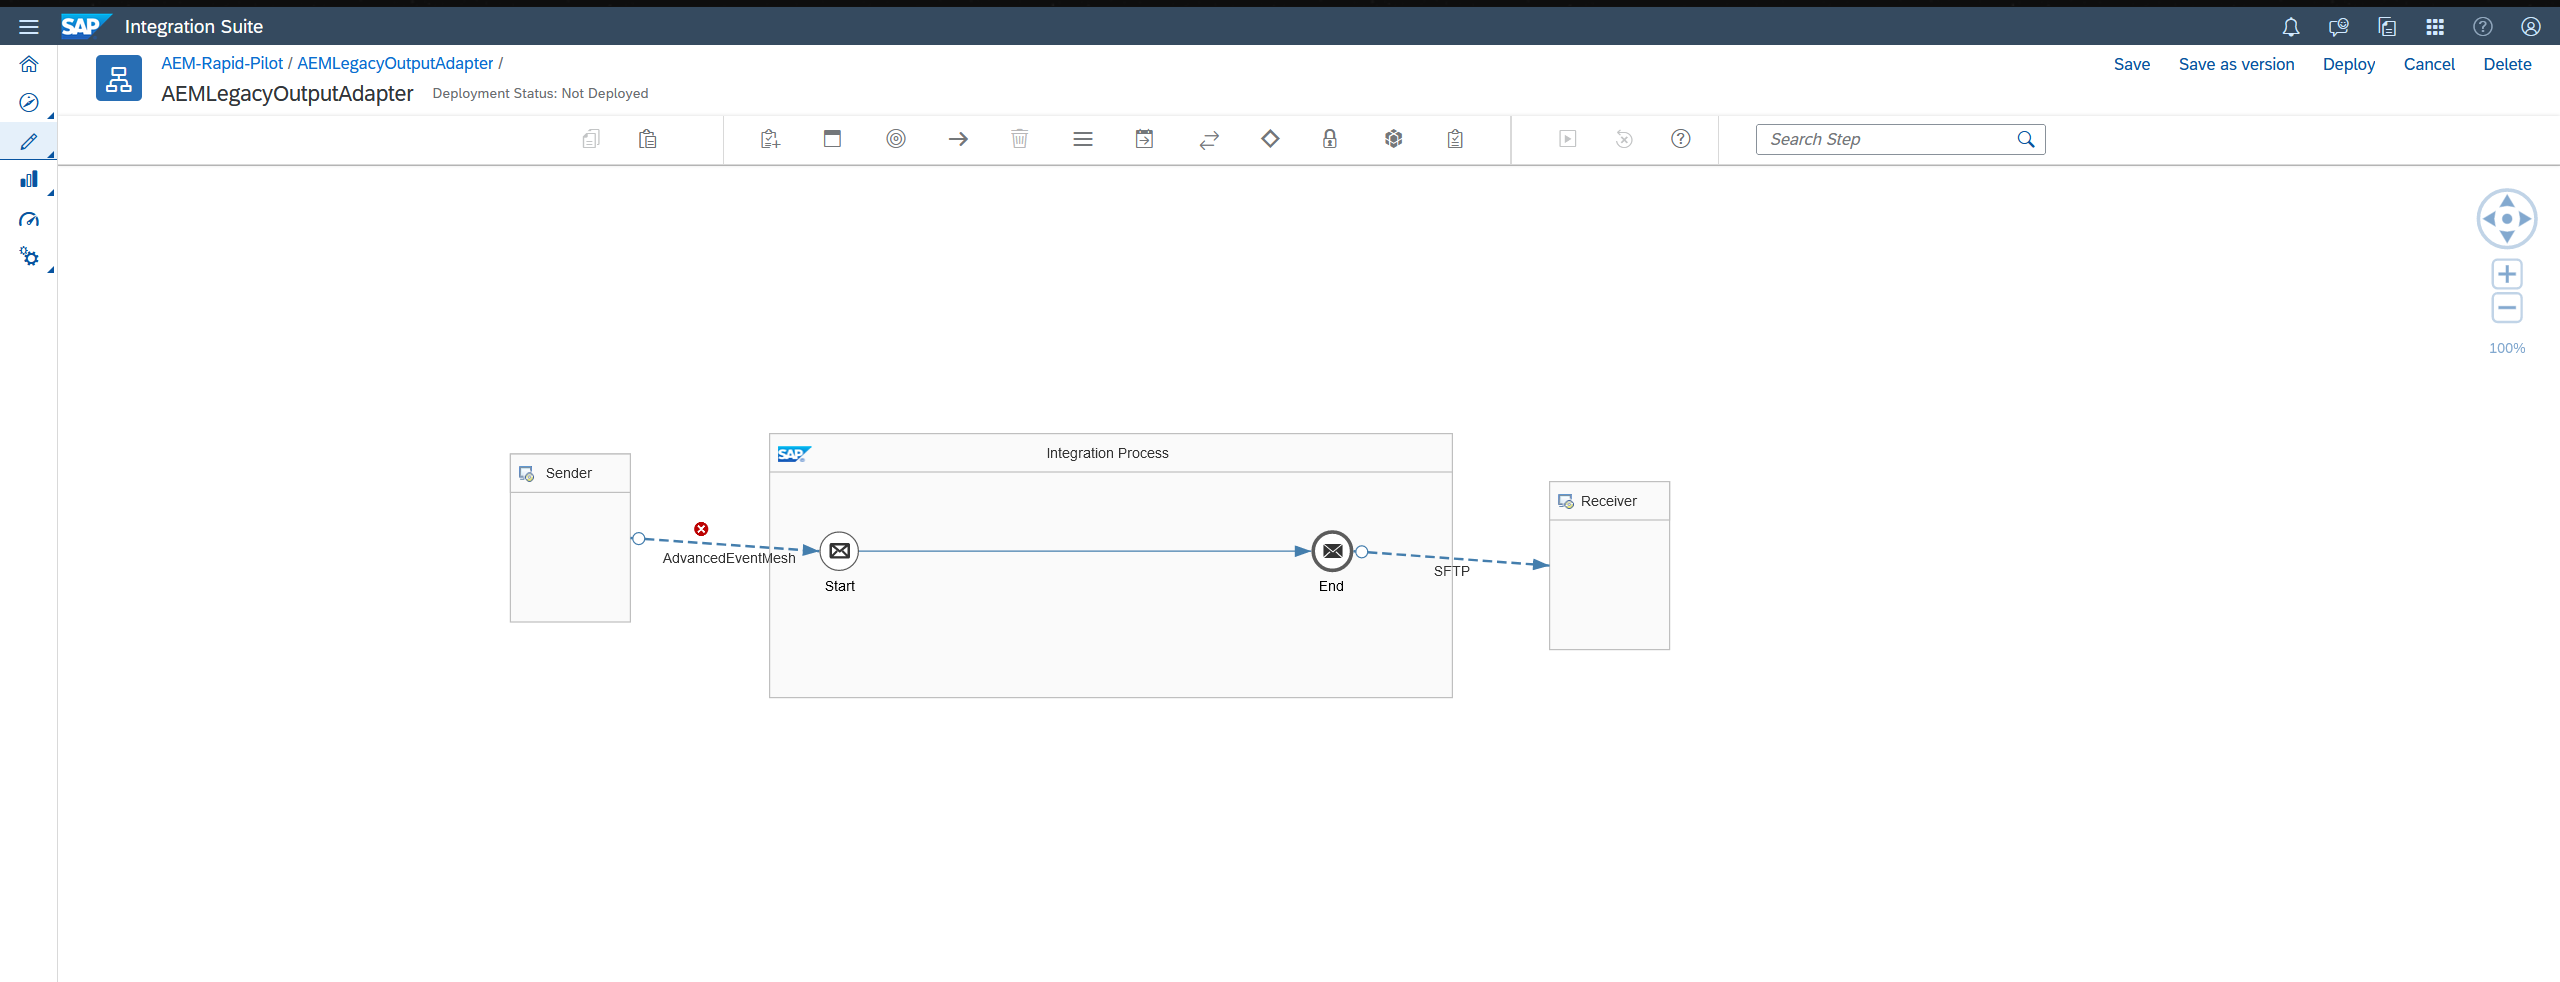
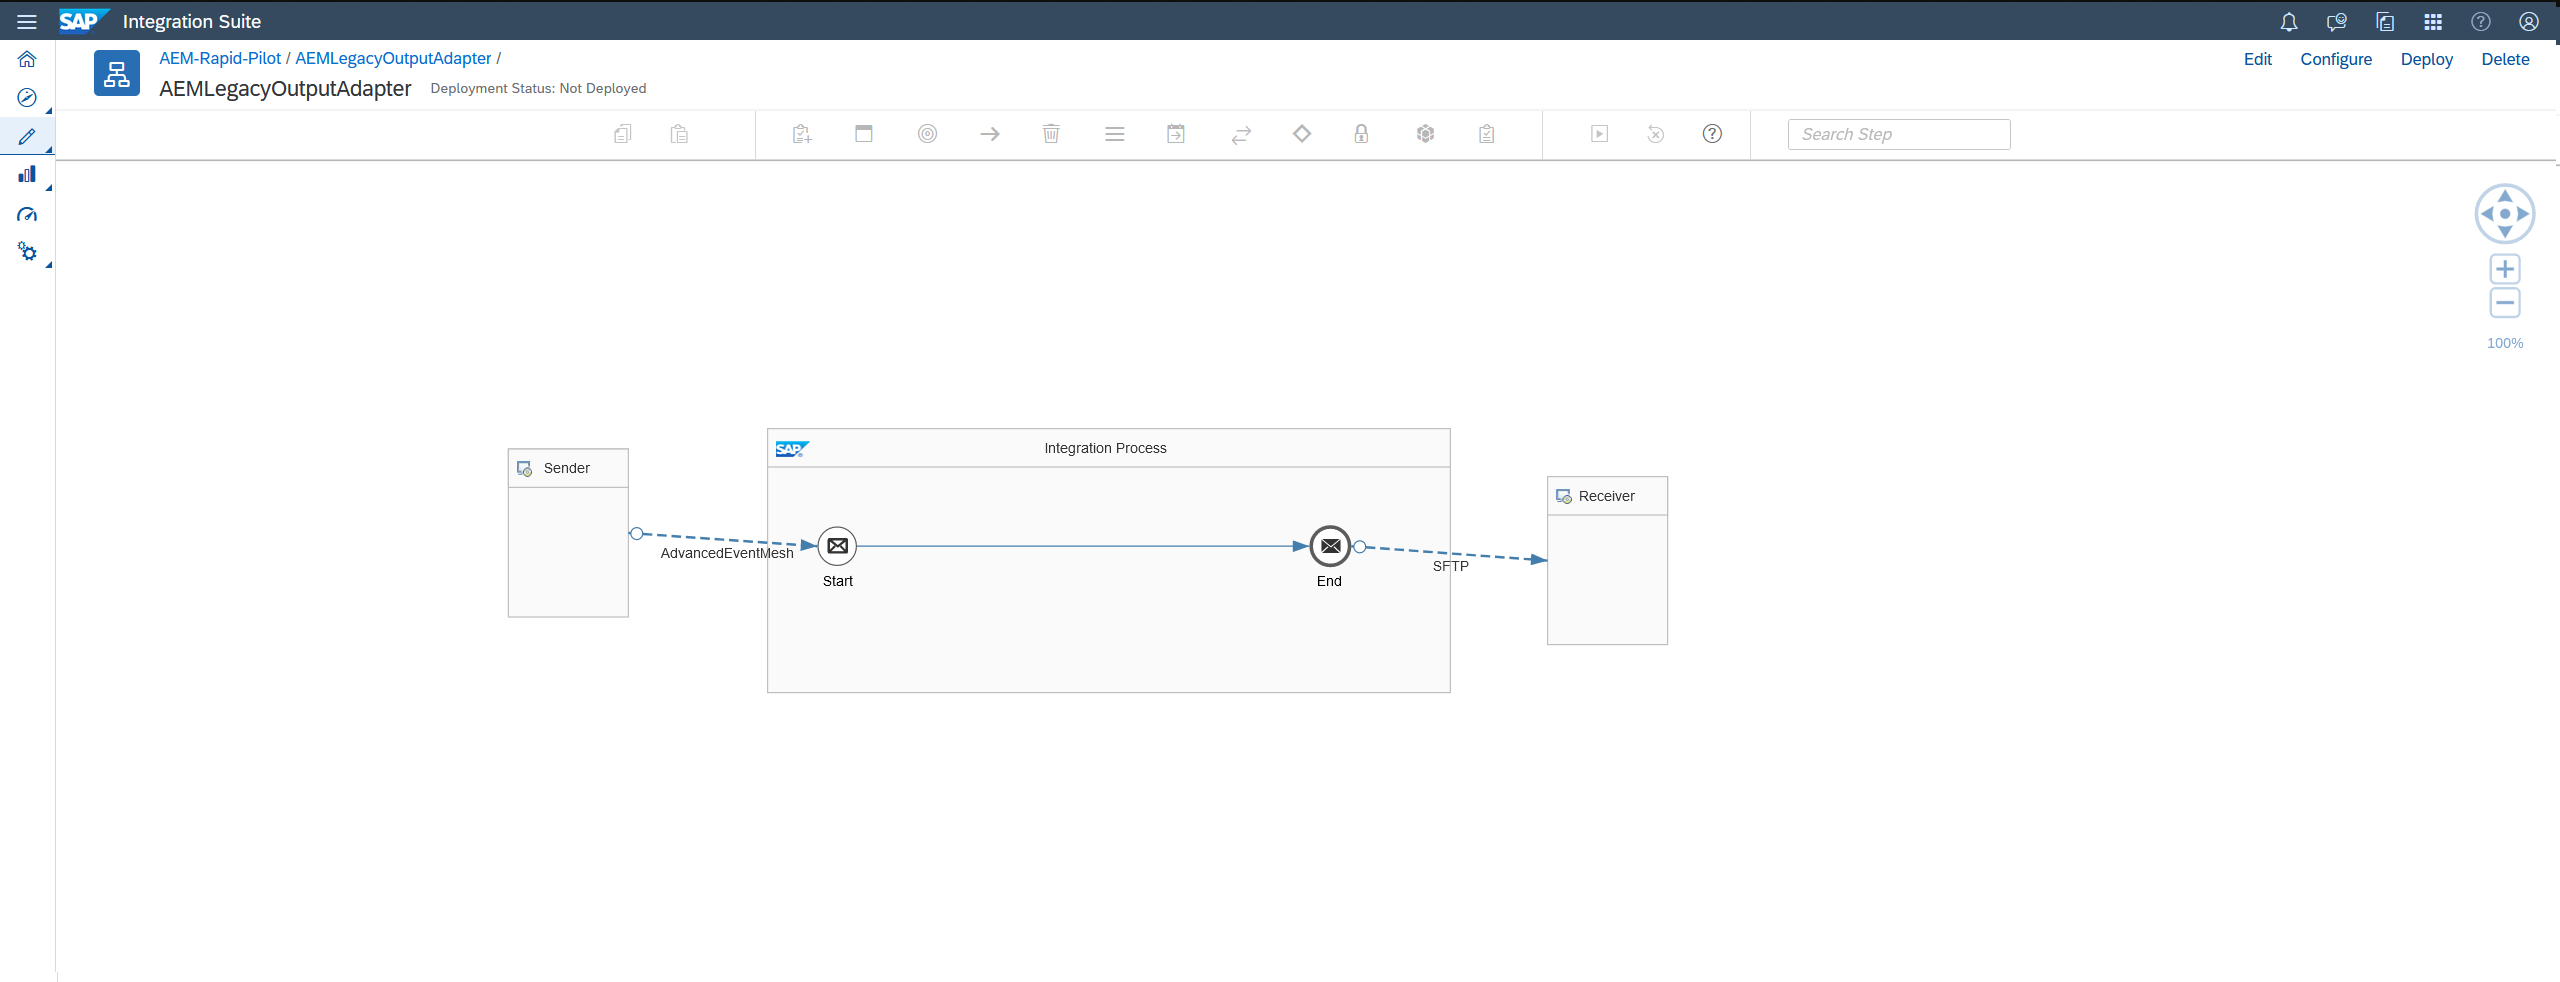
Added more details on the LegacyOutputAdapter
Added more details on the LegacyOutputAdapter

diff --git a/markdown/sap-aem-int-day-3/sap-aem-int-day-3.md b/markdown/sap-aem-int-day-3/sap-aem-int-day-3.md
@@ -153,11 +153,11 @@ Now that we have set up all the prerequisites for our Integration Suite flows, w
 2a. Let's take a look at the AEMBusinessPartnerAddressCheck iflow:
 ![AEMBusinessPartnerAddressCheck_flow](img/AEMBusinessPartnerAddressCheck_flow.png)
 > This flow receives Business Partner Create and Change events and invokes the Data Quality Management Service in BTP to check and correct the addresses inside the Business Partner event payload. It does this by<br>
-> a) Storing the original event payload in an environment variable.
-> b) Populating the DQM request payload with the addresses in the input event.
-> c) Invoking the DQM service over REST and
-> d) Parsing the response, checking whether the DQM service evaluated the input addresses to be Valid, Invalid, Blank or has Corrected them.
-> e) Merging any corrected addresses back into the original payload.
+> a) Storing the original event payload in an environment variable.<br>
+> b) Populating the DQM request payload with the addresses in the input event.<br>
+> c) Invoking the DQM service over REST and<br>
+> d) Parsing the response, checking whether the DQM service evaluated the input addresses to be Valid, Invalid, Blank or has Corrected them.<br>
+> e) Merging any corrected addresses back into the original payload.<br>
 > f) And finally publishing the result back as a new event to the AEM broker with an updated topic in the format:<br>
 > `sap.com/businesspartner/addressChecked/V1/{businessPartnerType}/{partnerId}/{addressCheckStatus}`
 
@@ -210,6 +210,10 @@ TODO
 
 
 4b. Configuring and deploying  the AEMLegacyOutputAdapter iflow:
+- Hit configure at the top right and fill in the details to connect to your AEM broker service:
+![AEM service configuration pt1](img/CIAEMLegacyOutputAdapterConfiguration.png)
+![AEM service configuration pt2](img/CIAEMLegacyOutputAdapterConfiguration-pt2.png)
+- Then hit deploy at the bottom right.
 
 4c. Check that your flow was deployed successfully and fix if necessary.
 - Go to Monitor Artifacts -> Manage Integration Content -> All. <br>
